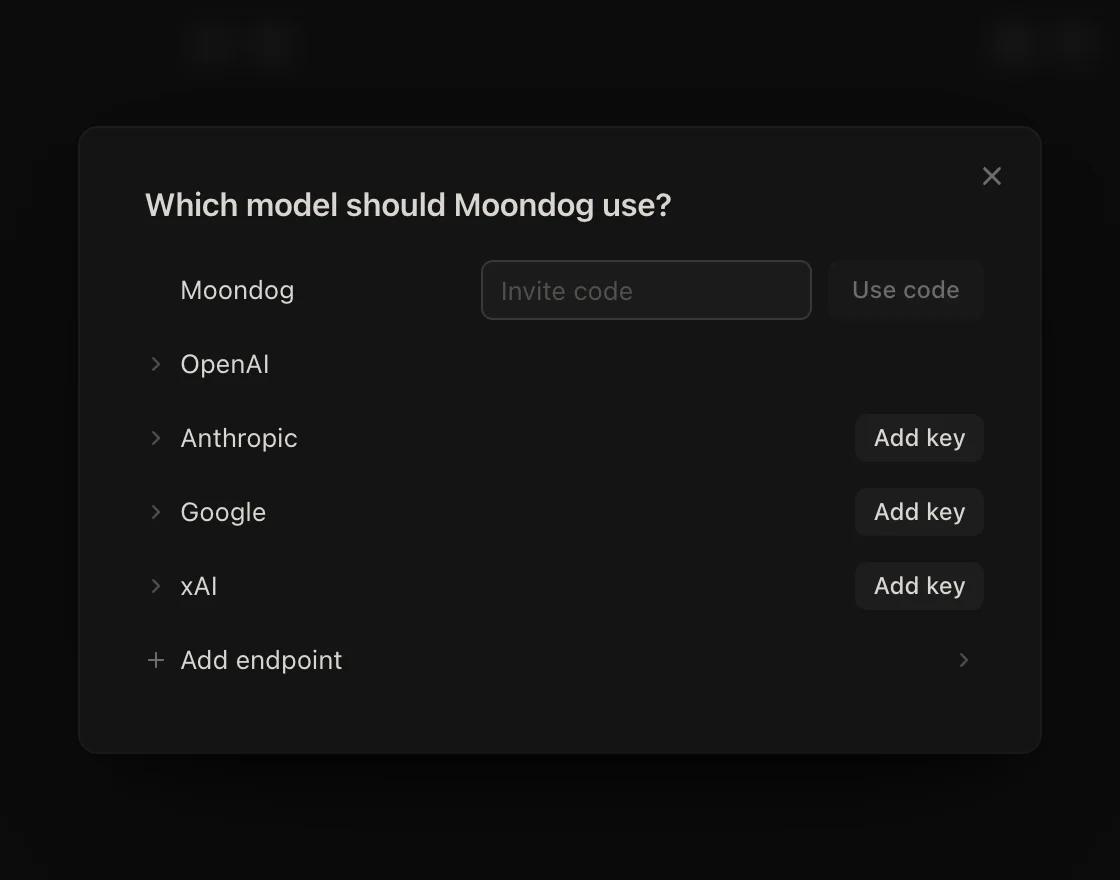
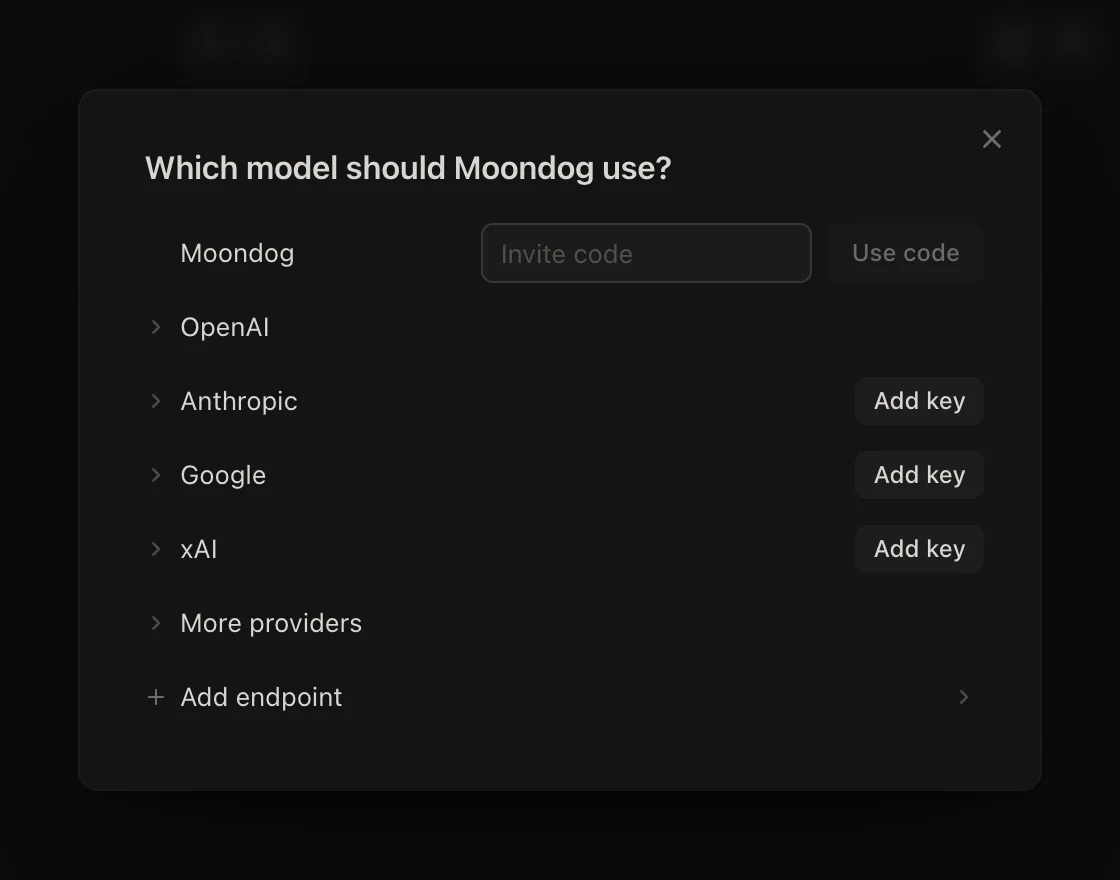
Release Moondog 0.3.2 (#190)

diff --git a/site/start.html b/site/start.html
@@ -96,7 +96,7 @@
         <figure class="shot">
           <picture>
             <source media="(prefers-color-scheme: dark)" srcset="static/guide/model-dark.webp">
-            <img src="static/guide/model-light.webp" width="1120" height="880" loading="lazy" alt="The second question, Which model should Moondog use: Moondog with a field for an invite code, then OpenAI, Anthropic, Google and xAI, and Add endpoint">
+            <img src="static/guide/model-light.webp" width="1120" height="880" loading="lazy" alt="The second question, Which model should Moondog use: Moondog with a field for an invite code, then OpenAI, Anthropic, Google, xAI and More providers">
           </picture>
         </figure>
 
@@ -105,6 +105,7 @@
 
         <h3 id="own-model">With your own model</h3>
         <p>OpenAI takes a ChatGPT subscription, with a sign-in in your browser, or an API key. Anthropic, Google and xAI take an API key: choose Add key.</p>
+        <p>For DeepSeek, Kimi, GLM or OpenRouter, choose More providers, then Add key. Kimi has separate choices for its global and China APIs.</p>
         <p>Any other service that speaks OpenAI's or Anthropic's API goes in with Add endpoint: its address, its key and its model names. A model that runs on your own computer goes in the same way.</p>
         <p>The first run ends once a model can answer. To change the model later, open Settings, then Model.</p>
       </div>
@@ -167,7 +168,7 @@
       <div class="part-body after-shot">
         <p>The reply says what Moondog picked, and why each song is there. The player shows what's playing and what's up next: play a song now, or take one out.</p>
         <p>When Moondog gets you wrong, say so. “Never play this again” is enough. Or open Taste, pick a song or an artist, and choose I like this or Keep it out.</p>
-        <p>On a Mac with Apple silicon, Moondog can also make music itself. Set up Stable Audio 3 once in Settings, under Playback. Then press the On Air mark (⌃⌘O), and Moondog keeps making music from your taste until you stop it.</p>
+        <p>Ask for an instrumental and Moondog can write and play a score. To use Stable Audio 3 on Apple silicon, Windows x64, or Linux x64 or ARM64, download a model in Settings under Playback. Once the model is ready, press On Air to keep the music going.</p>
         <p>The terminal has the same room, with the same profile, sign-ins and conversations. The <a href="https://github.com/Audiofool934/moondog/blob/main/docs/TERMINAL_GUIDE.md">terminal guide</a> covers it.</p>
       </div>
     </section>

diff --git a/README.md b/README.md
@@ -4,7 +4,7 @@
 
 <h1 align="center">Moondog</h1>
 
-<p align="center">Version 0.3.1</p>
+<p align="center">Version 0.3.2</p>
 
 <p align="center"><strong>On the air, just for you.</strong></p>
 
@@ -20,7 +20,7 @@
 Moondog is a radio host just for you.
 It reads the history your music services already keep, learns your taste from it, and plays music for you on Spotify, Apple Music, or NetEase Music.
 Ask it for something, and it answers like a host: what it picked, and why each song is there.
-On a Mac it can also go on air with music it makes itself.
+It can also write you an instrumental track or go on air with music it makes itself.
 
 There are two clients on one core: a desktop app and a listening room in your terminal.
 They share your profile, settings, sign-ins, and conversations.
@@ -121,8 +121,10 @@ Under a set of songs, one line names the mix: how many you know well, how many c
 
 - **Up next.** The desktop player shows the queue: play a song now, or take one out. When it runs low, the host offers a few picks.
 - **Your library.** Saved songs, your playlists, and the tracks Moondog made sit side by side. Import a Spotify, Apple Music, NetEase Music, or QQ Music playlist by its link, and export a playlist to Spotify.
-- **Music it makes.** On an Apple silicon Mac, Moondog makes instrumental tracks offline with Stable Audio 3, powered by Stability AI. Set it up once in Settings › Playback, or with `/generation download medium`, after you agree to its licenses.
-- **On Air.** Press the On Air mark, ⌃⌘O, or type `/onair`, and Moondog keeps making music from your taste until you stop it.
+- **Music it makes.** Ask for an instrumental and Moondog can write a score and play it on its built-in synthesizer.
+  For Stable Audio 3, powered by Stability AI, choose Medium or Small Music in Settings › Playback or use `/generation download medium`.
+  After you accept the licenses and download a model, it runs offline on Apple silicon, Windows x64, or Linux x64 or ARM64.
+- **On Air.** With Stable Audio 3 ready, press the On Air mark, ⌃⌘O, or type `/onair`, and Moondog keeps making music from your taste until you stop it.
 
 ## The terminal room
 

diff --git a/docs/PUBLIC_RELEASE_READINESS.md b/docs/PUBLIC_RELEASE_READINESS.md
@@ -1,6 +1,6 @@
 # Public source status
 
-Updated 2026-11-08.
+Updated 2026-11-22.
 
 The canonical repository is [Audiofool934/moondog](https://github.com/Audiofool934/moondog).
 The source is open under the [Apache License 2.0](../LICENSE), selected by the owner on 2026-10-06.
@@ -9,8 +9,8 @@ Contribution information is in [CONTRIBUTING.md](../CONTRIBUTING.md).
 ## Distribution
 
 Moondog is distributed as a signed and notarized Mac app for Apple silicon, as the npm package for macOS or Linux on Node.js 22.19.0 or newer, and as a source checkout with locked npm dependencies.
-The source version is `0.3.1`.
-`@audiofool/moondog` is the public npm package name, and the registry serves 0.3.1 as `latest` and the newest beta as `beta`.
+The source version is `0.3.2`.
+`@audiofool/moondog` is the public npm package name, and stable releases use the `latest` channel.
 Version 0.1.0 predates the updater, so its installs need a one-time manual upgrade; see [updates and maintainer setup](UPDATES.md).
 A `v` tag publishes through npm trusted publishing with provenance. A prerelease tag publishes on its own; a stable tag waits for the owner's approval in the `release-approval` environment.
 The tagged release workflow runs the clean-source check before OIDC publication.
